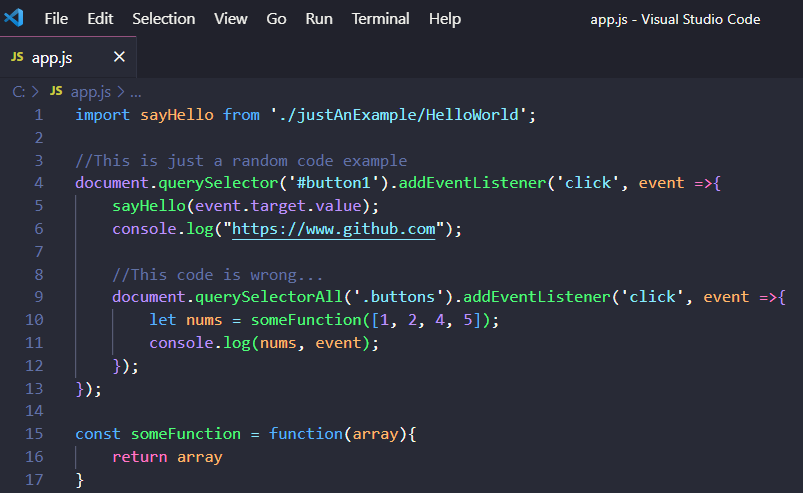
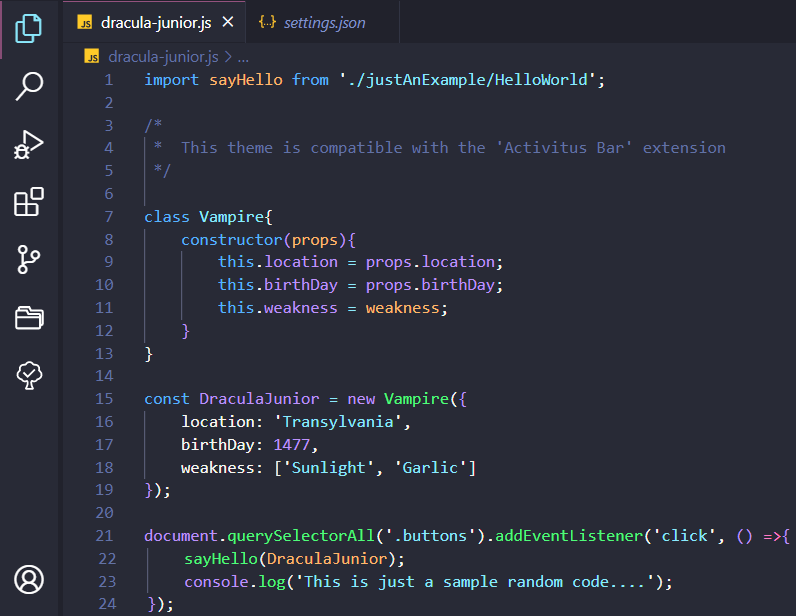
Version 1.18.4

diff --git a/CHANGELOG.md b/CHANGELOG.md
@@ -1,3 +1,6 @@
+#### 1.18.4 (patch)
+- Screnshot updated.
+
 #### 1.18.3 (patch)
 - README.md updated.
 
